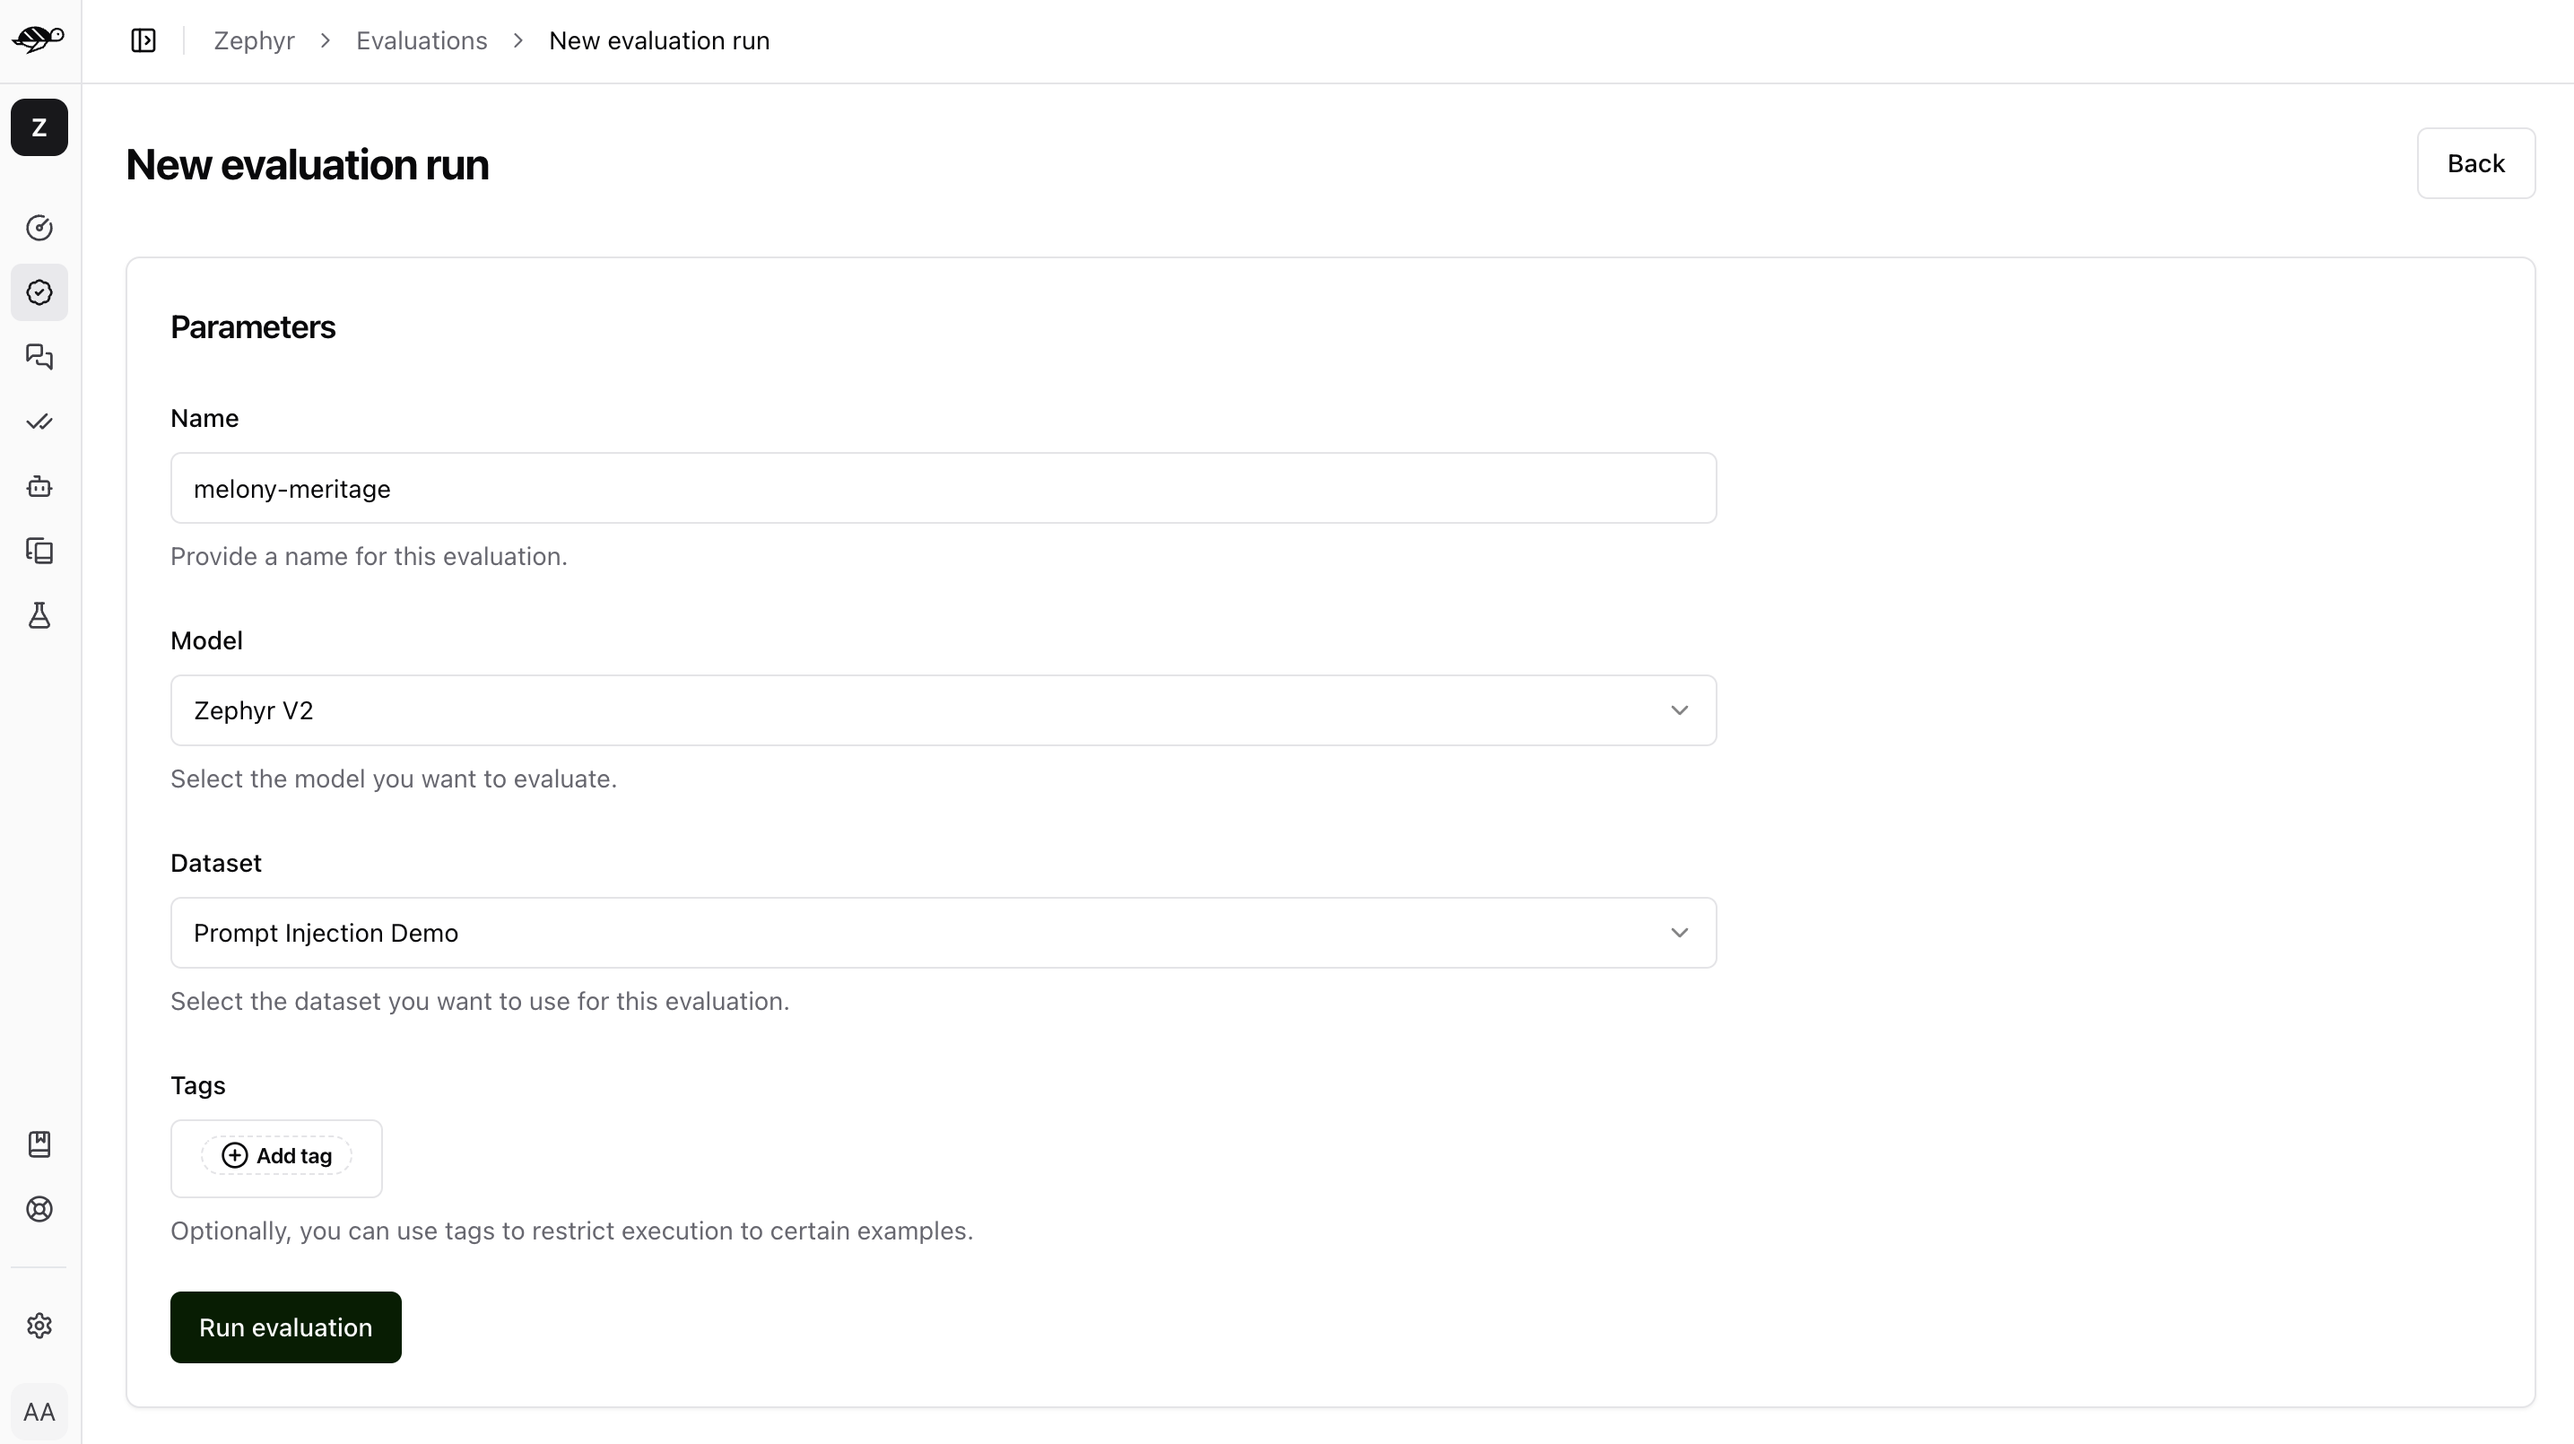
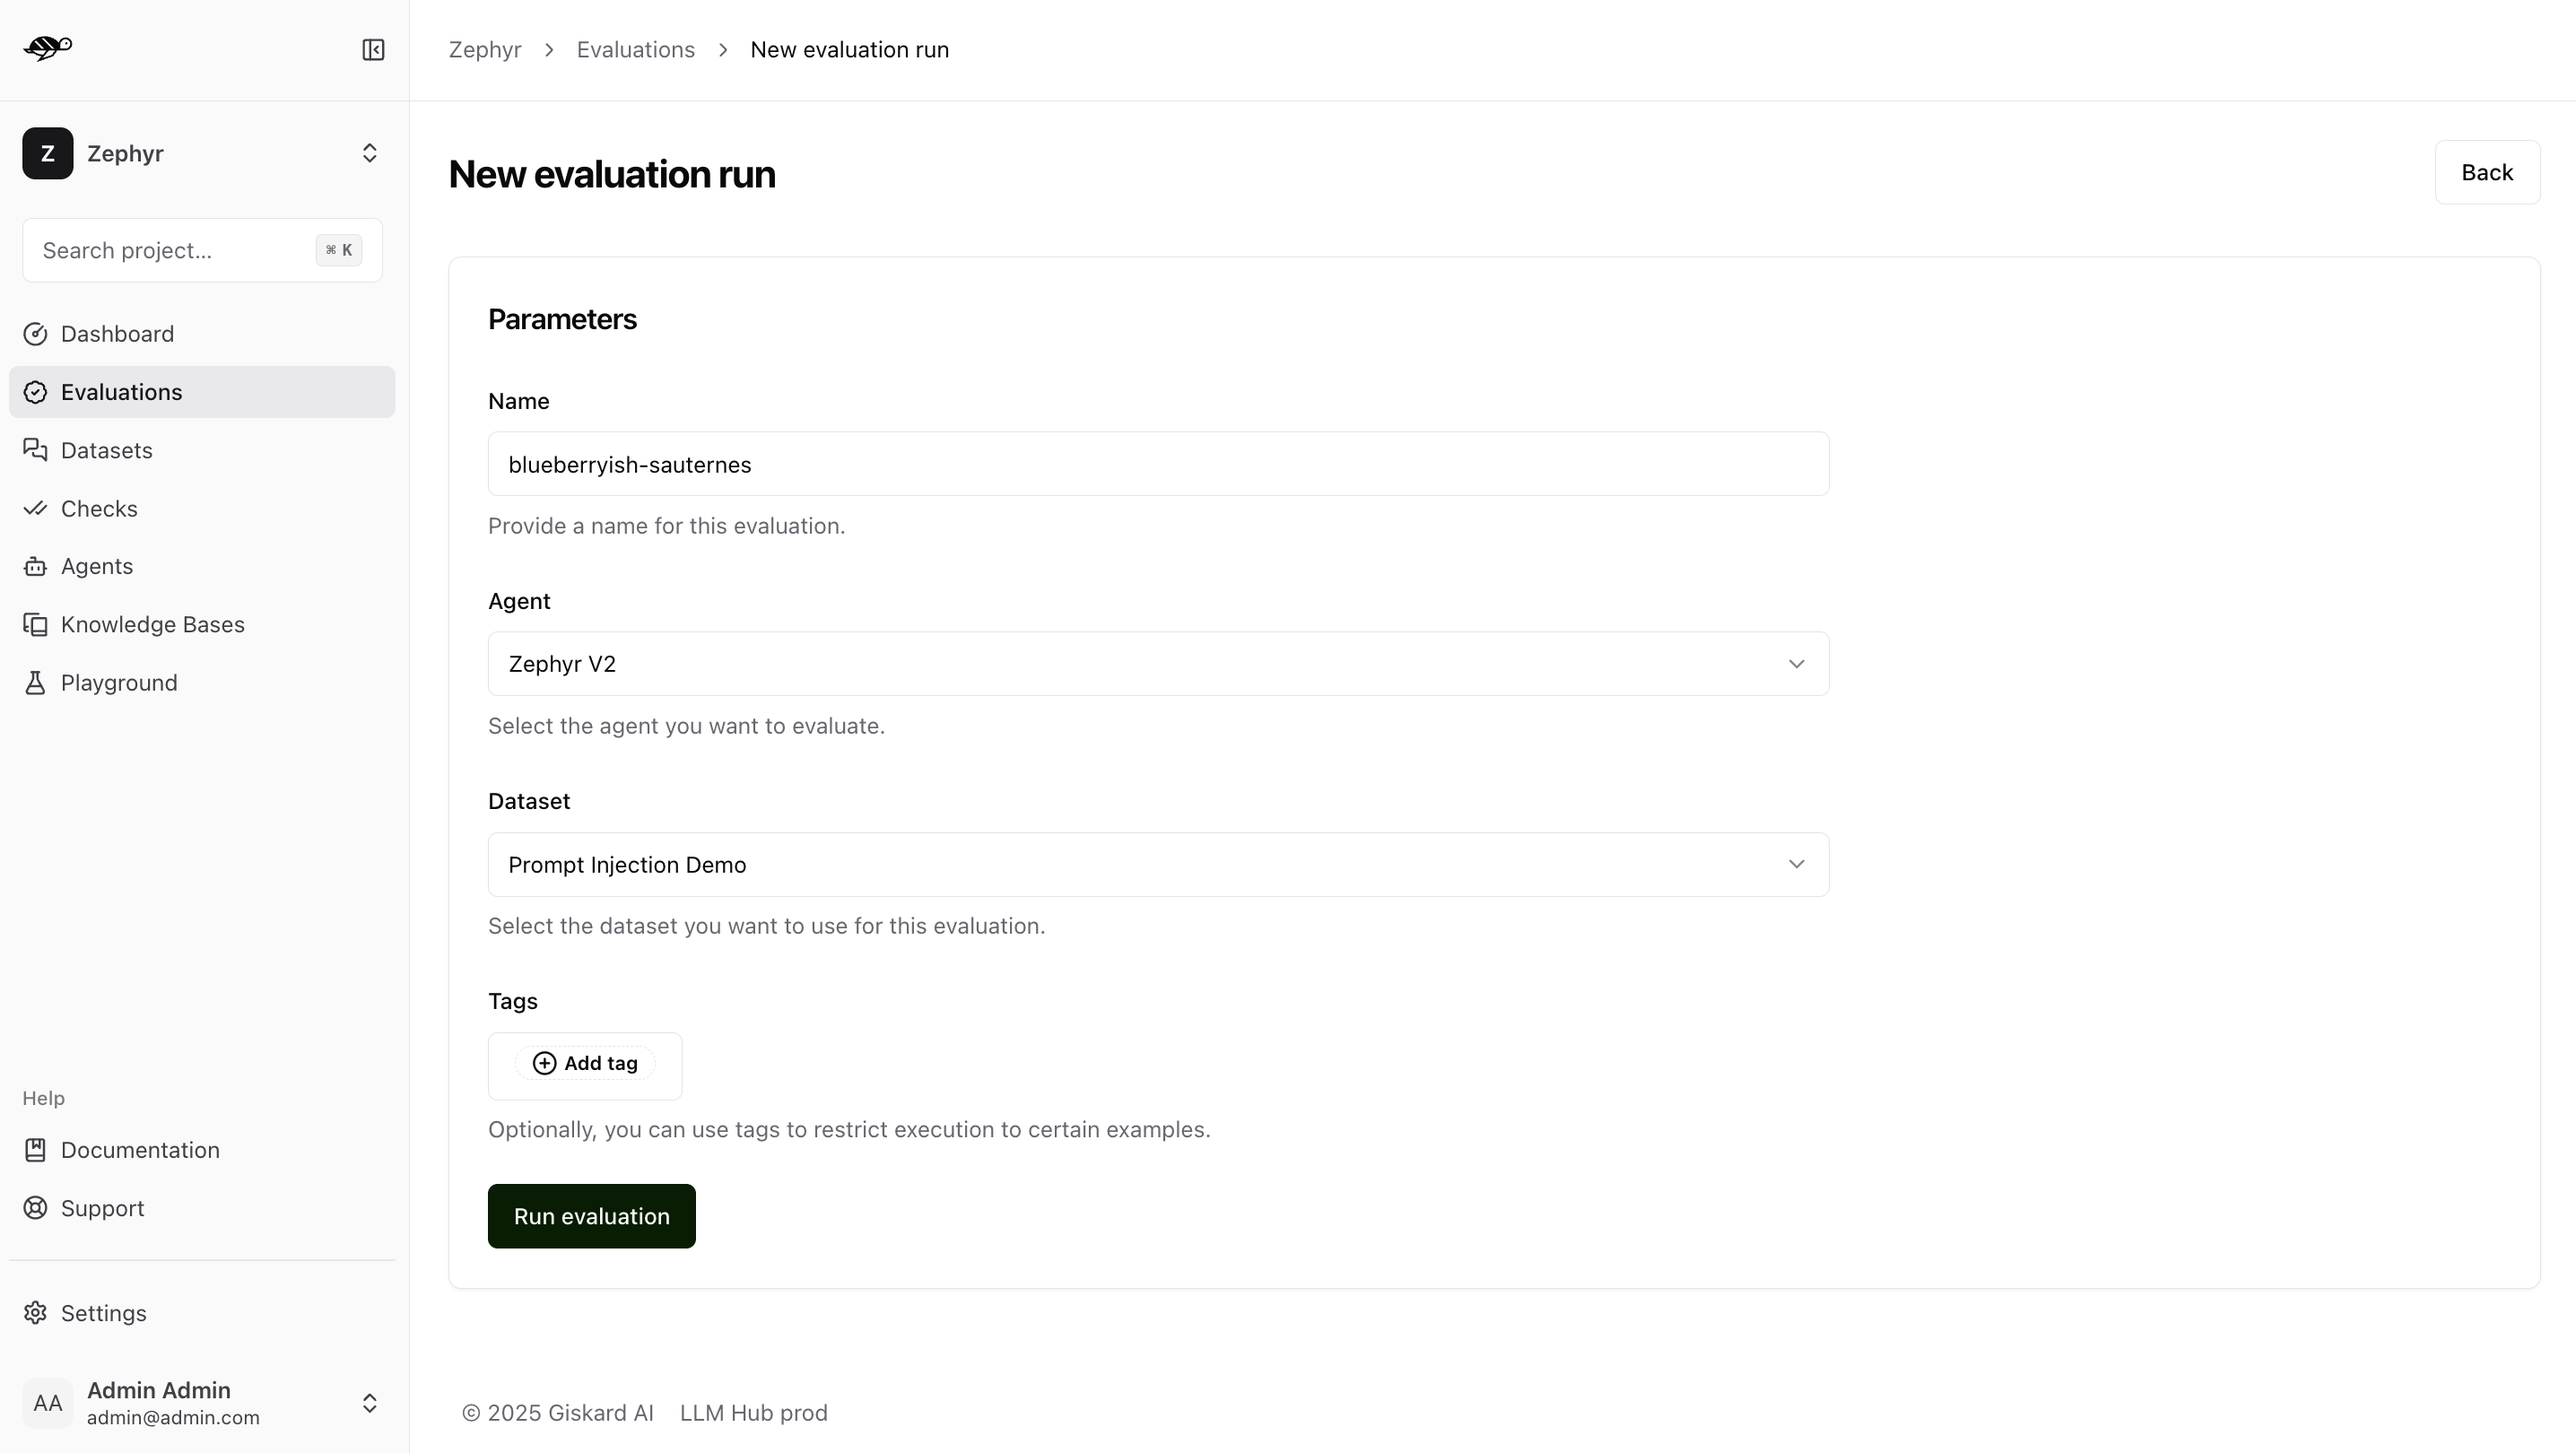
Update hub/run evaluations doc

diff --git a/script-docs/hub/guide/run-evaluations.rst b/script-docs/hub/guide/run-evaluations.rst
@@ -2,13 +2,13 @@
 Run evaluations
 ================
 
-This section guides you through evaluating your model using a given dataset. For example, you might want to run evaluations systematically whenever you deploy an updated model in a pre-production or staging environment. This approach allows you to collaborate with your team to ensure the model performs as expected.
+This section guides you through evaluating your agent using a given dataset. For example, you might want to run evaluations systematically whenever you deploy an updated agent in a pre-production or staging environment. This approach allows you to collaborate with your team to ensure the agent performs as expected.
 
 
 Create a new evaluation
 ------------------------
 
-On the Evaluations page, click the "Run Evaluation" button in the upper right corner of the screen.
+On the Evaluations page, click on "Run evaluation" button in the upper right corner of the screen.
 
 .. image:: /_static/images/hub/evaluation-list.png
    :align: center
@@ -17,7 +17,7 @@ On the Evaluations page, click the "Run Evaluation" button in the upper right co
 
 Next, set the parameters for the evaluation:
 
-- ``Model``: Select the model you wish to evaluate.
+- ``Agent``: Select the agent you wish to evaluate.
 
 - ``Dataset``: Choose the dataset you want to use for the evaluation.
 
@@ -36,7 +36,7 @@ The evaluation run is automatically named and assessed against the Correctness a
 
 - **Groundedness**: Ensures the agent's response is grounded in the conversation.
 
-- **String Match**: Checks if the agent's response contains a specific string, keyword, or sentence.
+- **String matching**: Checks if the agent's response contains a specific string, keyword, or sentence.
 
 The pie chart below displays the number of evaluations that passed, failed, or were unexecuted.
 
@@ -45,7 +45,7 @@ The pie chart below displays the number of evaluations that passed, failed, or w
    :alt: "Evaluation metrics"
    :width: 800
 
-When you click on a conversation in the Evaluation Runs, you’ll see detailed information on the Correctness and/or Conformity metrics, along with the reason for the result.
+When you click on a conversation in the Evaluation Runs, you’ll see detailed information on the metrics, along with the reason for the result.
 
 .. image:: /_static/images/hub/evaluation-detail.png
    :align: center
